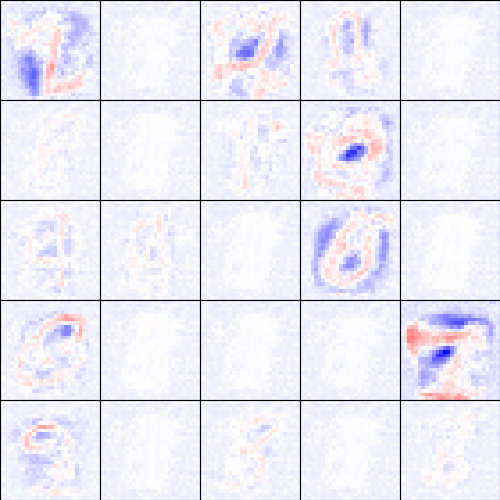
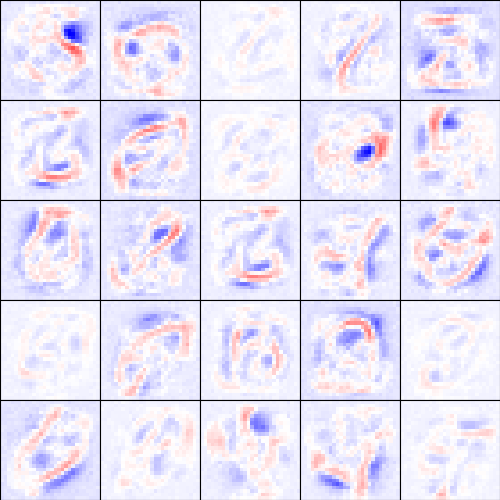
Hopefully working

diff --git a/lab4.2/dbn.py b/lab4.2/dbn.py
@@ -5,7 +5,6 @@ class DeepBeliefNet():
 
     ''' 
     For more details : Hinton, Osindero, Teh (2006). A fast learning algorithm for deep belief nets. https://www.cs.toronto.edu/~hinton/absps/fastnc.pdf
-
     network          : [top] <---> [pen] ---> [hid] ---> [vis] 
                                `-> [lbl] 
     lbl : label
@@ -55,7 +54,6 @@ class DeepBeliefNet():
     def recognize(self,true_img,true_lbl):
 
         """Recognize/Classify the data into label categories and calculate the accuracy
-
         Args:
           true_imgs: visible data shaped (number of samples, size of visible layer)
           true_lbl: true labels shaped (number of samples, size of label layer). Used only for calculating accuracy, not driving the net
@@ -78,7 +76,7 @@ class DeepBeliefNet():
 
         print("hid--pen")
         penOut = self.rbm_stack['hid--pen'].get_h_given_v_dir(hidOut)[1]
-        penLblIn = np.concatenate((penOut, lbl), axis=1)
+        penLblIn = np.hstack((penOut, lbl))
         
         for _ in range(self.n_gibbs_recog):
             print("pen+lbl--top")
@@ -94,7 +92,6 @@ class DeepBeliefNet():
     def generate(self,true_lbl,name):
         
         """Generate data from labels
-
         Args:
           true_lbl: true labels shaped (number of samples, size of label layer)
           name: string used for saving a video of generated visible activations
@@ -136,7 +133,6 @@ class DeepBeliefNet():
         Greedy layer-wise training by stacking RBMs. This method first tries to load previous saved parameters of the entire RBM stack. 
         If not found, learns layer-by-layer (which needs to be completed) .
         Notice that once you stack more layers on top of a RBM, the weights are permanently untwined.
-
         Args:
           vis_trainset: visible data shaped (size of training set, size of visible layer)
           lbl_trainset: label data shaped (size of training set, size of label layer)
@@ -191,7 +187,6 @@ class DeepBeliefNet():
         """
         Wake-sleep method for learning all the parameters of network. 
         First tries to load previous saved parameters of the entire network.
-
         Args:
           vis_trainset: visible data shaped (size of training set, size of visible layer)
           lbl_trainset: label data shaped (size of training set, size of label layer)

diff --git a/lab4.2/rbm.py b/lab4.2/rbm.py
@@ -51,7 +51,7 @@ class RestrictedBoltzmannMachine():
         
         self.weight_h_to_v = None
 
-        self.learning_rate = 1/batch_size
+        self.learning_rate = 0.01
         
         self.momentum = 0.7
 
@@ -141,13 +141,13 @@ class RestrictedBoltzmannMachine():
             if it % self.print_period == 0:
                 print ("iteration=%3d/%3d \t recon_loss=%4.4f" %
                        (it+1, n_iterations, loss))
-        # plt.figure('Digit Estimate')
-        # for i in range(9):
-        #     plt.subplot(3, 3, i+1)
-        #     first_im = vk[1][i][:]
-        #     first_im = first_im.reshape(28, 28)
-        #     plt.imshow(first_im)
-        # plt.show()
+        plt.figure('Digit Estimate')
+        for i in range(9):
+            plt.subplot(3, 3, i+1)
+            first_im = vk[1][i][:]
+            first_im = first_im.reshape(28, 28)
+            plt.imshow(first_im)
+        plt.show()
         return reconstructed_hidden
     
 
